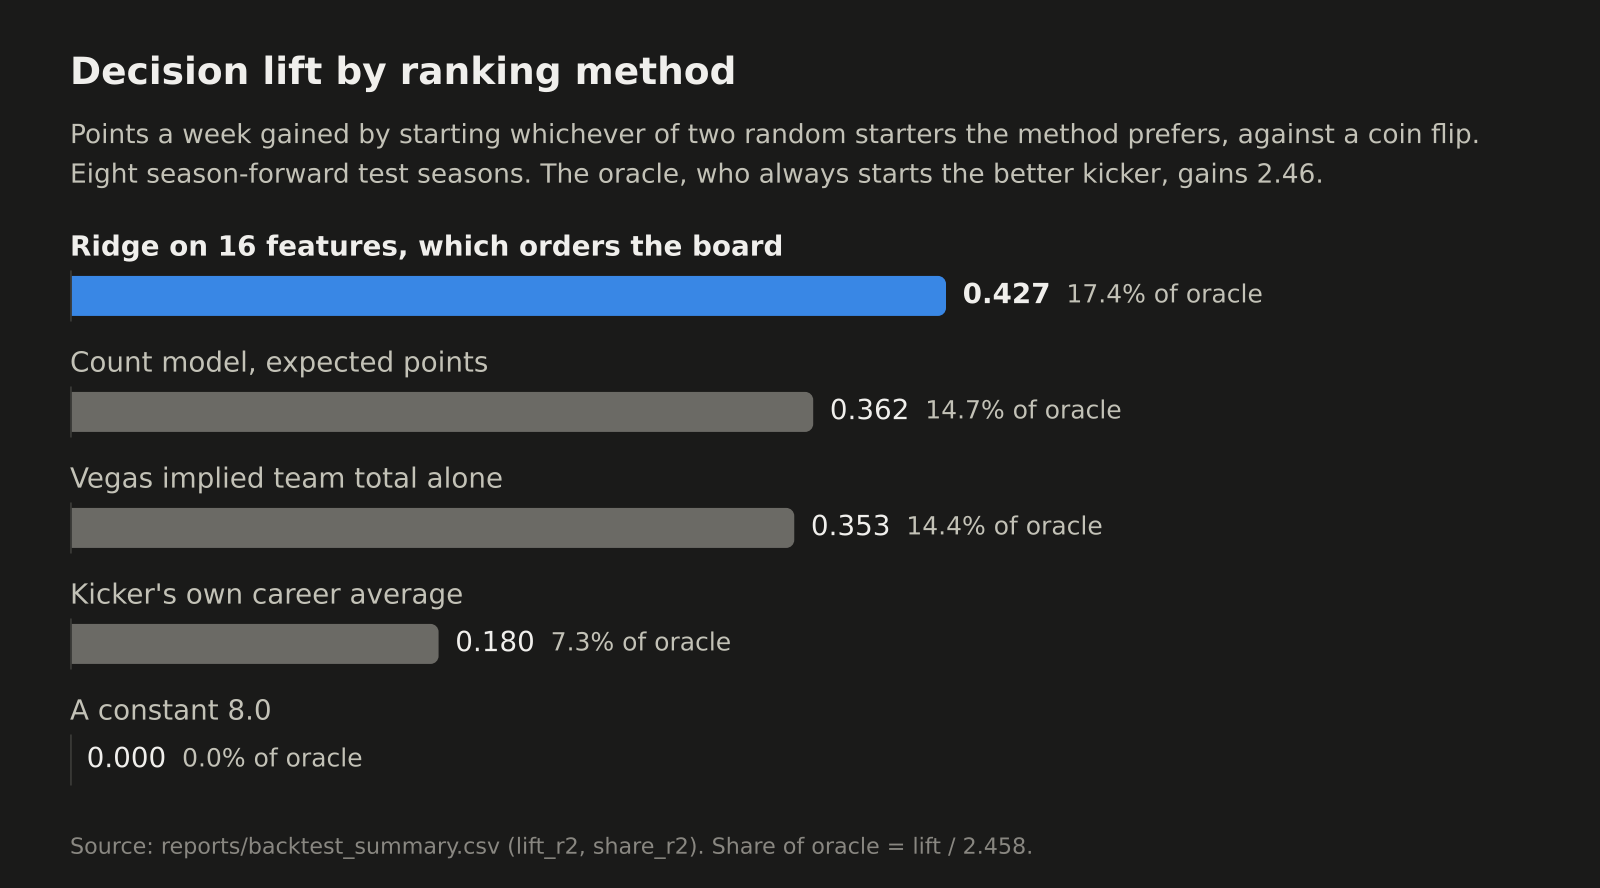
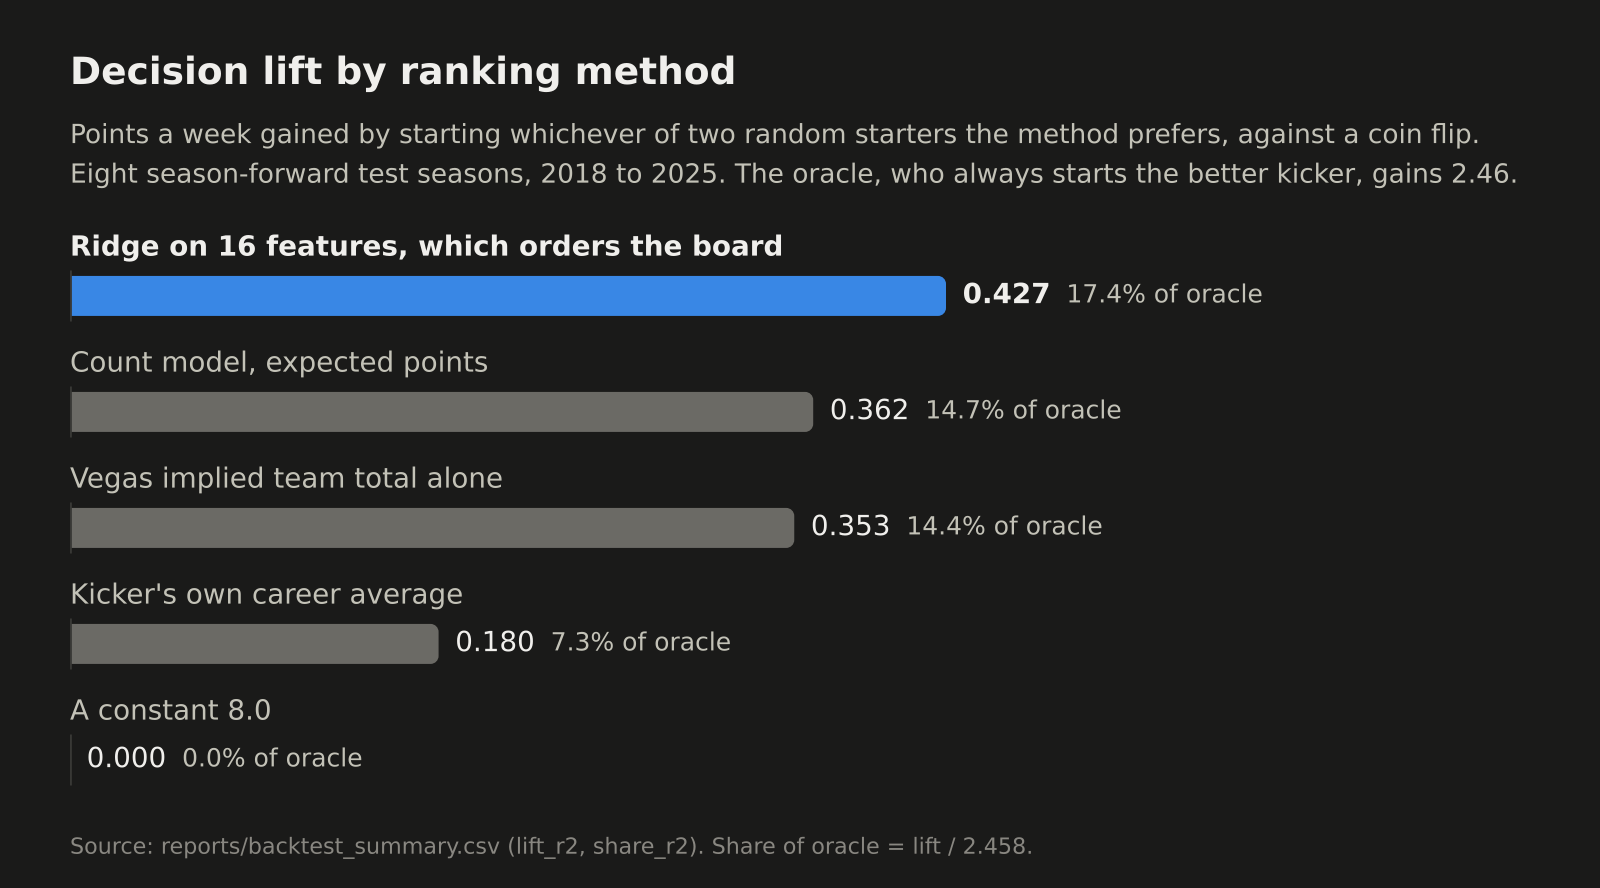
Pin the backtest to 2018-2025 and regenerate every tracked CSV on one build
2026 is scored live from the boards published before each week, so it must
never become a ninth backtest fold once it reaches eight weeks. LAST_TEST =
2025 in backtest.py; the bake-off, evaluate.py and both experiments use it,
and the variance decomposition is over 2015-2025.

The bake-off, the feature-family re-test, the 50+ study, the live scorecard
(week 7 now final) and the figures are rerun on the same data build as the
backtest, so the cross-CSV checks in figures.py pass without a caveat.

Adds the 2026 week 8 board, built before the week's first kickoff.

Changed region(s): [[0.3438, 0.1824, 0.9375, 0.2128]]

diff --git a/src/kicker_analysis/backtest.py b/src/kicker_analysis/backtest.py
@@ -46,7 +46,7 @@ The same run writes the evidence for the other claims the documents make:
       the reference row).
   variance_decomposition.csv
       var(points) = var(FG points) + var(PAT points) + 2 cov, over every
-      modelling row (regular season, 2015 to the current season).
+      modelling row (regular season, 2015 through LAST_TEST).
   season_level_tests.csv
       Each test season (eight in the tracked run) is one observation of the
       edge, however many weeks it contains. Per-season mean differences in
@@ -105,6 +105,10 @@ from kicker_analysis.model import (CompoundKickerModel, RidgeRanker, FEATURES,  
 ROOT = pathlib.Path(__file__).resolve().parents[2]
 REPORTS = ROOT / "reports"
 FIRST_TEST = 2018
+# The backtest is frozen at 2018-2025. 2026 is scored prospectively, from the
+# boards published before each week (score_boards.py), so it never becomes a
+# fold here and the tracked numbers do not move while the season is played.
+LAST_TEST = 2025
 MIN_WEEKS = 8
 SEED = 0
 N_BOOT = 10000
@@ -497,7 +501,7 @@ def calibration(P: pd.DataFrame, base_rate: dict, n: int = N_BOOT,
 def main() -> int:
     df = load(processed=ROOT / "data" / "processed")
     seasons = sorted(df.season.unique())
-    tests = [s for s in seasons if s >= FIRST_TEST
+    tests = [s for s in seasons if FIRST_TEST <= s <= LAST_TEST
              and df[df.season == s].week.nunique() >= MIN_WEEKS]
     check_roof(df)
     live = [f for f in FEATURES if df[f].std() > 0]
@@ -582,10 +586,11 @@ def main() -> int:
           f"training-season mean, with a week-block 95% interval:")
     print(skill.round(4).to_string(index=False))
 
-    fg_all, pat_all = component_points(df)
-    vd = variance_decomposition(fg_all, pat_all, df.fantasy_points)
-    print(f"\nVariance of weekly points, {len(df):,} kicker-games "
-          f"{int(seasons[0])}-{int(seasons[-1])}:")
+    hist = df[df.season <= LAST_TEST]
+    fg_all, pat_all = component_points(hist)
+    vd = variance_decomposition(fg_all, pat_all, hist.fantasy_points)
+    print(f"\nVariance of weekly points, {len(hist):,} kicker-games "
+          f"{int(hist.season.min())}-{int(hist.season.max())}:")
     print(vd.round(4).to_string(index=False))
 
     cal, rel = calibration(P, base_rate)

diff --git a/src/kicker_analysis/evaluate.py b/src/kicker_analysis/evaluate.py
@@ -78,6 +78,7 @@ REPORTS = ROOT / "reports"
 
 FIRST_SEASON = 2015          # the extra point moved to the 33, and pbp wp starts here
 FIRST_TEST_SEASON = 2018
+LAST_TEST_SEASON = 2025      # backtest.LAST_TEST: 2026 is scored live, not as a fold
 # A season enters the pooled table only with enough distinct weeks to be an
 # estimate rather than an anecdote. The old guard was `len(test) < 50` rows,
 # a magic number unrelated to stability: 32 more rows would have flipped a
@@ -285,9 +286,10 @@ def run() -> dict:
     df = load()
     feats = feature_columns(df)
     seasons = sorted(df.season.unique())
-    test_seasons = [s for s in seasons if s >= FIRST_TEST_SEASON
+    test_seasons = [s for s in seasons if FIRST_TEST_SEASON <= s <= LAST_TEST_SEASON
                     and df[df.season == s].week.nunique() >= MIN_TEST_WEEKS]
-    skipped = [int(s) for s in seasons if s >= FIRST_TEST_SEASON and s not in test_seasons]
+    skipped = [int(s) for s in seasons
+               if FIRST_TEST_SEASON <= s <= LAST_TEST_SEASON and s not in test_seasons]
     print(f"{len(df):,} kicker-games {df.season.min()}-{df.season.max()}, {len(feats)} features")
     print(f"test seasons scored: {[int(s) for s in test_seasons]}")
     if skipped:

diff --git a/experiments/feature_families/ridge_retest.py b/experiments/feature_families/ridge_retest.py
@@ -90,7 +90,7 @@ warnings.filterwarnings("ignore")
 ROOT = pathlib.Path(__file__).resolve().parents[2]
 sys.path.insert(0, str(ROOT / "src"))
 from kicker_analysis import feat_drives, feat_legstadium, feat_redzone  # noqa: E402
-from kicker_analysis.backtest import (FIRST_TEST, MIN_WEEKS, _pick_probs,  # noqa: E402
+from kicker_analysis.backtest import (FIRST_TEST, LAST_TEST, MIN_WEEKS, _pick_probs,  # noqa: E402
                                       boot_lift, decision, rho)
 from kicker_analysis.features import check_roof  # noqa: E402
 from kicker_analysis.model import FEATURES, RidgeRanker, load  # noqa: E402
@@ -199,7 +199,7 @@ def shuffle_family(df: pd.DataFrame, cols: list[str], draw: int,
 def test_seasons(df: pd.DataFrame) -> list[int]:
     """backtest.py's fold rule, so the baseline lines up with its ridge row."""
     return [int(s) for s in sorted(df.season.unique())
-            if s >= FIRST_TEST and df[df.season == s].week.nunique() >= MIN_WEEKS]
+            if FIRST_TEST <= s <= LAST_TEST and df[df.season == s].week.nunique() >= MIN_WEEKS]
 
 
 def season_forward(df: pd.DataFrame, features: list[str],

diff --git a/src/kicker_analysis/model_bakeoff.py b/src/kicker_analysis/model_bakeoff.py
@@ -74,7 +74,7 @@ import pandas as pd
 
 warnings.filterwarnings("ignore")
 sys.path.insert(0, str(pathlib.Path(__file__).resolve().parent.parent))
-from kicker_analysis.backtest import (FIRST_TEST, MIN_WEEKS, boot_lift,  # noqa: E402
+from kicker_analysis.backtest import (FIRST_TEST, LAST_TEST, MIN_WEEKS, boot_lift,  # noqa: E402
                                       decision, per_week_lift, rho)
 from kicker_analysis.features import check_roof  # noqa: E402
 from kicker_analysis.model import (CompoundKickerModel, FEATURES,  # noqa: E402
@@ -424,7 +424,8 @@ def run(quick: bool) -> int:
     print("  roof flags sd: " + ", ".join(f"{c} {df[c].std():.3f}"
                                          for c in ("is_indoor_certain", "is_retractable")))
     seasons = sorted(df.season.unique())
-    tests = [s for s in seasons if s >= FIRST_TEST and df[df.season == s].week.nunique() >= MIN_WEEKS]
+    tests = [s for s in seasons if FIRST_TEST <= s <= LAST_TEST
+             and df[df.season == s].week.nunique() >= MIN_WEEKS]
     n_inner, n_boot = (1, 1000) if quick else (3, 10000)
     if quick:
         tests = tests[-3:]

diff --git a/experiments/fifty_plus/fifty_plus.py b/experiments/fifty_plus/fifty_plus.py
@@ -133,6 +133,7 @@ HEADLINE_SEASON = 2025
 # The same split as backtest.py, restated so this file does not depend on two
 # constants that module does not promise to keep.
 FIRST_TEST = 2018
+LAST_TEST = 2025
 MIN_WEEKS = 8
 N_BOOT = 10000
 SEED = 0
@@ -347,7 +348,7 @@ def season_forward(df: pd.DataFrame, base: list[str], arms: dict,
     the mechanism predicts it positive (more willingness to kick long, more
     kicker points).
     """
-    tests = [s for s in sorted(df.season.unique()) if s >= first_test
+    tests = [s for s in sorted(df.season.unique()) if first_test <= s <= LAST_TEST
              and df[df.season == s].week.nunique() >= MIN_WEEKS]
     out, coefs = [], {a: {} for a in arms}
     for s in tests:
